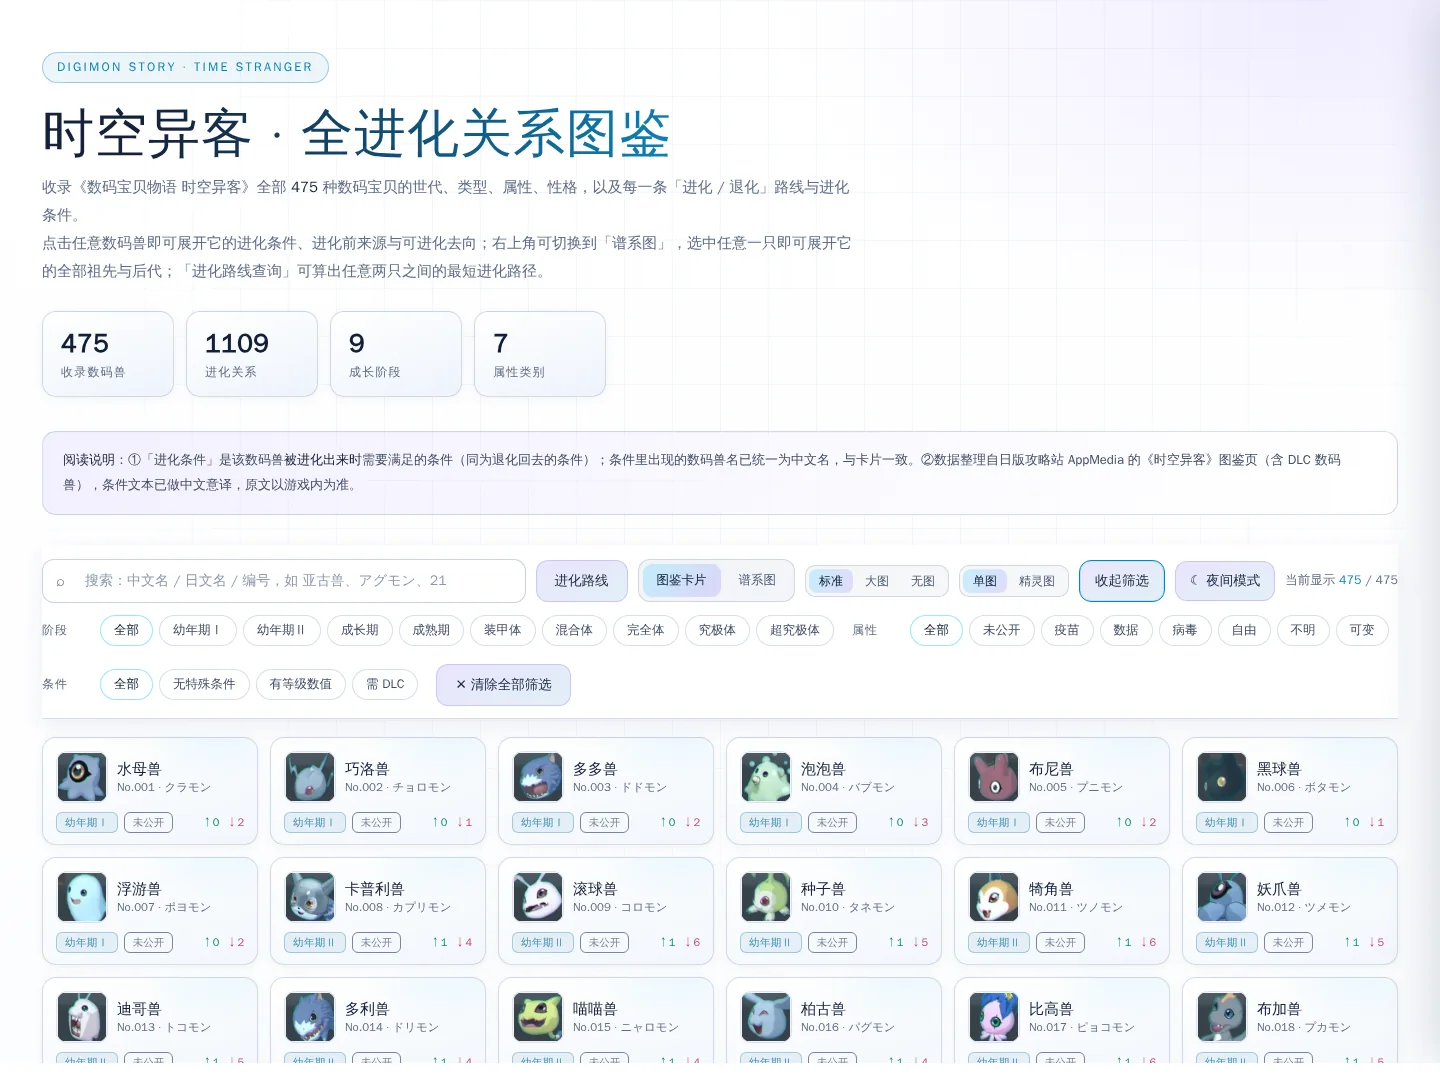
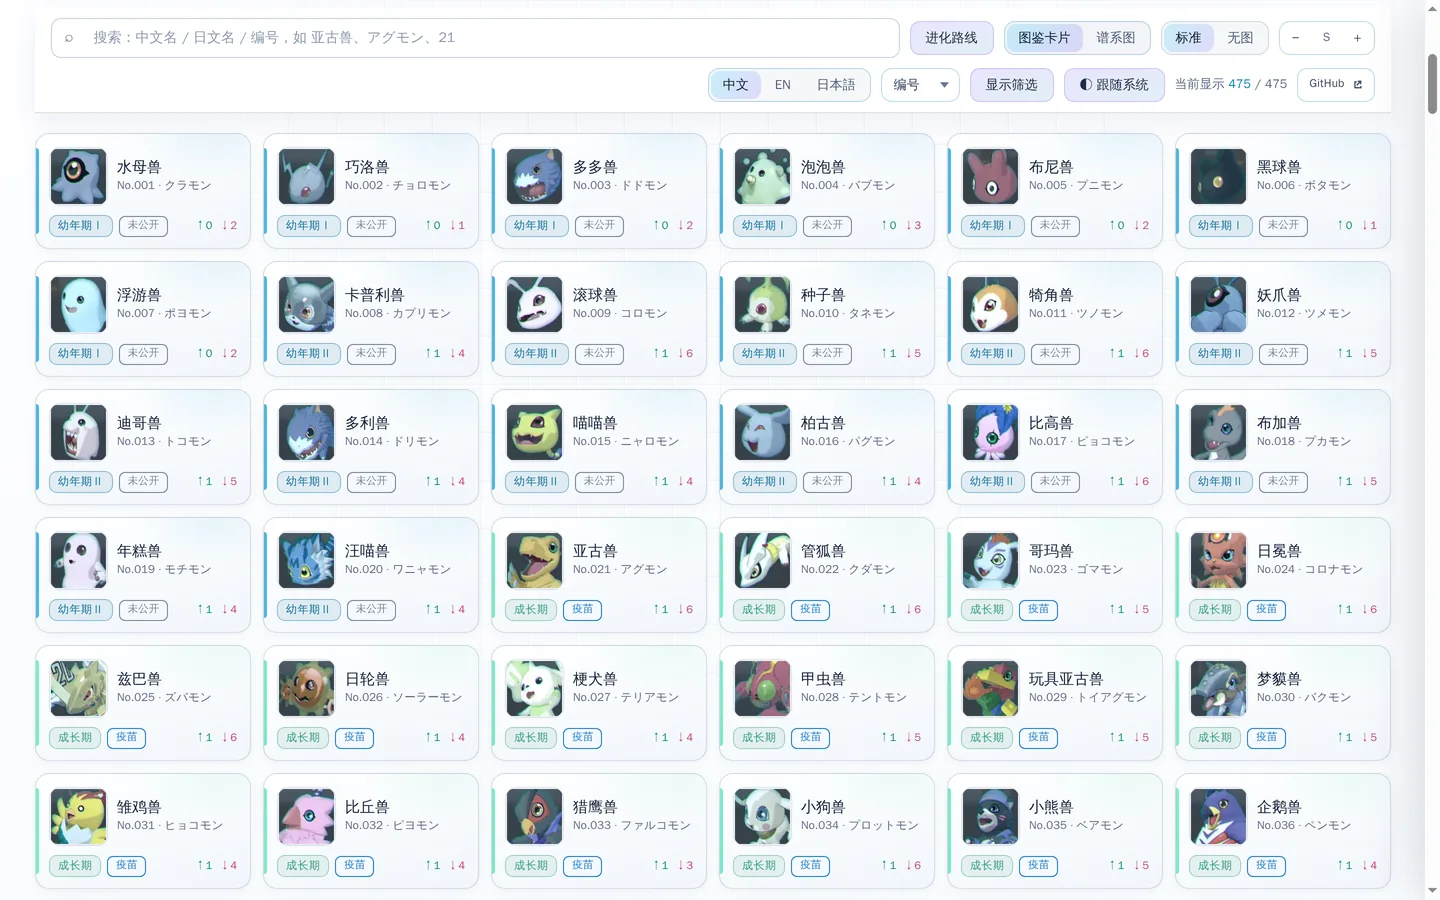
docs: v1.9.18 更新 README 预览图（卡片/谱系/抽屉），补齐三模式主题多语言

diff --git a/README.md b/README.md
@@ -14,15 +14,15 @@ An offline field guide and evolution-graph explorer for all 475 Digimon in *Digi
 
 ## 预览 / Screenshots
 
-**图鉴卡片视图**：475 只全列表，顶部三组筛选（阶段 / 属性 / 条件）与「标准 / 无图」密度切换 + 卡片大小步进器。
+**图鉴卡片视图**：475 只全列表，卡片左缘阶段色条 + 阶段/属性/关系数徽标；顶部搜索、视图切换、「标准 / 无图」密度与卡片大小步进器；筛选默认收起，点「显示筛选」展开阶段 / 属性 / 条件三组筛选。
 
 ![图鉴卡片视图](docs/screenshot-deck.webp)
 
-**谱系图视图**：以亚古兽为中心，左侧窄栏 475 只可切换，节点左 `↑N` 上溯、右 `+N` 下展，连线为进化关系（无箭头）。  
+**谱系图视图**：以亚古兽为中心，中心环与光晕随阶段配色；左侧窄栏 475 只可切换，节点左 `↑N` 上溯、右 `+N` 下展，连线为进化关系（无箭头）。
 
 ![谱系图视图](docs/screenshot-lineage.webp)
 
-**详情抽屉**：基础数值、Lv99 数值、耐性与技能、图鉴说明；「可进化为」列表里鼠标悬停任一条目，即显示进化成该形态所需的条件。
+**详情抽屉**：进化条件、Lv.1 / Lv.99 各性格数值、种族耐性与技能、图鉴说明；「可进化为」列表里鼠标悬停任一条目，即显示进化成该形态所需的条件。
 
 ![详情抽屉与悬停进化条件](docs/screenshot-drawer.webp)
 
@@ -110,13 +110,10 @@ python3 scripts/build_single.py
 
 ## 更新说明 / Changelog
 
-### v1.9.17 — 2026-11-21 · 主题三模式：跟随系统 / 白天 / 夜间
+### v1.9.18 — 2026-11-21 · 更新项目配图 + 三模式主题的多语言补齐
 
-- 主题按钮改为三态循环：**◐ 跟随系统 → ☀ 白天模式 → ☾ 夜间模式 → ◐ 跟随系统**
-- 「跟随系统」：实时读取电脑浅色/深色外观，浏览途中电脑切换外观会立即跟着变
-- 「白天 / 夜间」：固定该外观，不再被系统变化覆盖
-- 记忆规则不变：刷新（F5 / 重载）保留刚选的三态之一；关闭页面后重进回到「跟随系统」
-- `?theme=light|dark|auto` 分享链接仍优先，`auto` 即跟随系统
+- 重新截取 README 三张预览图（卡片视图 / 谱系图 / 详情抽屉），均为当前 v1.9.17+ 界面：卡片阶段色条、筛选默认收起、谱系中心光晕随阶段配色、抽屉悬停进化条件
+- 「◐ 跟随系统 / ☀ 白天模式 / ☾ 夜间模式」三态按钮及其提示文案补齐英文、日文，切换语言后不再显示中文标签
 
 ## 数据来源 / Data
 
